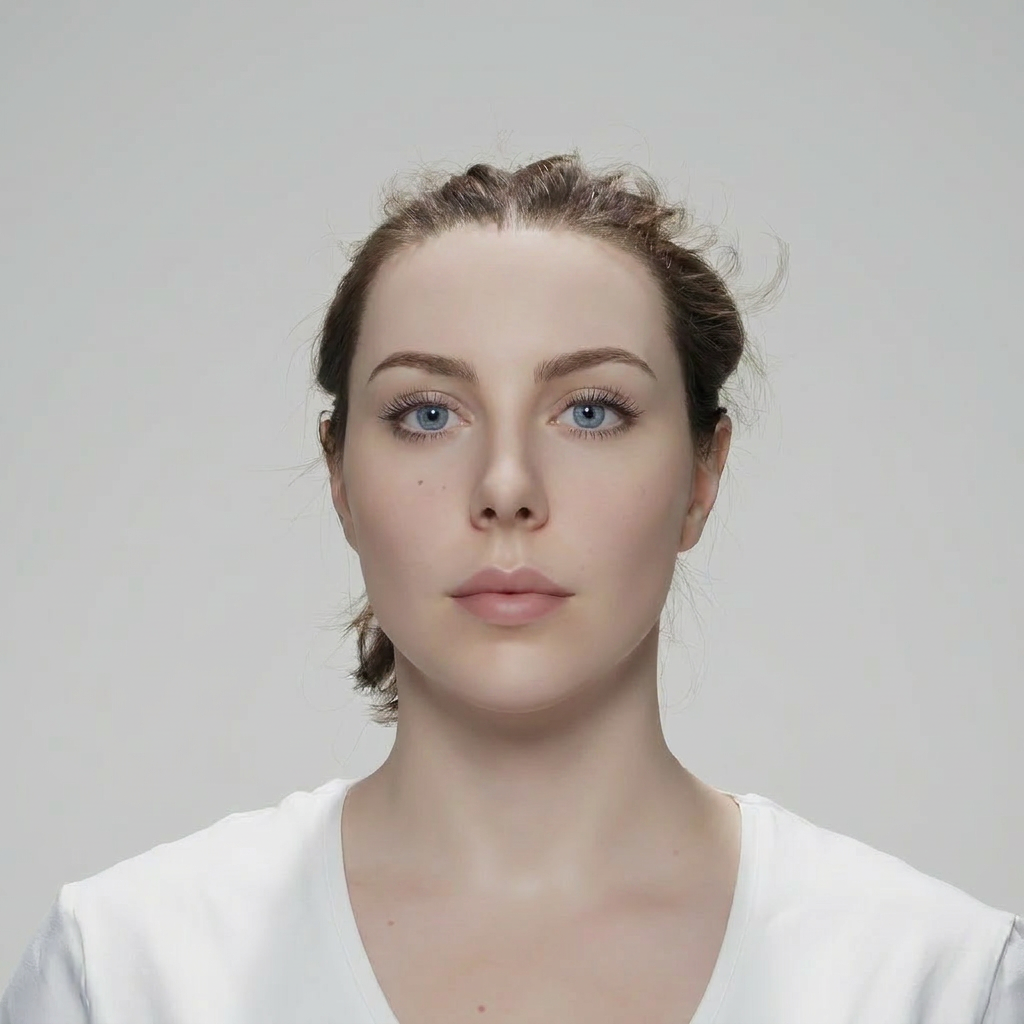
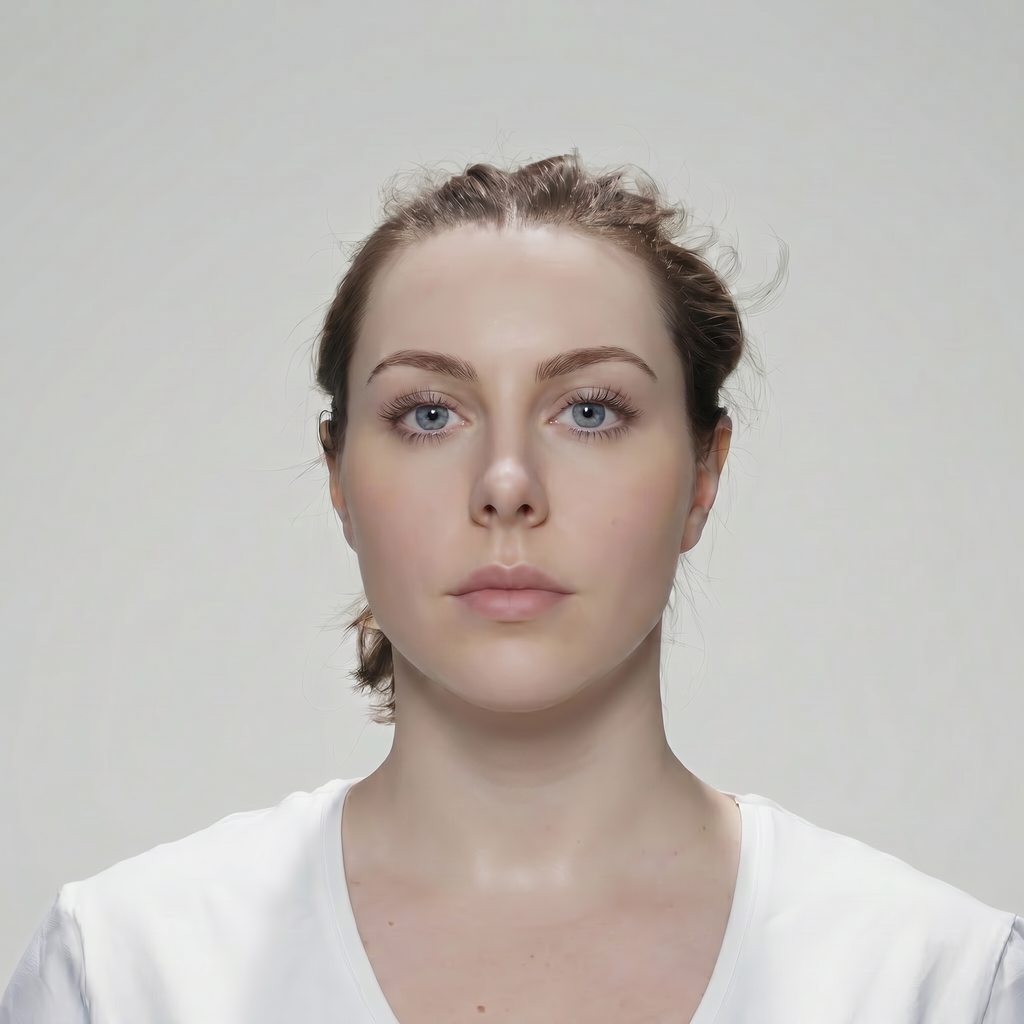
Final Generation: added image_size = "2K" for image generation (Gemini)
riduce la sgranatura

diff --git a/main-generating-v5London.py b/main-generating-v5London.py
@@ -283,7 +283,8 @@ def generate_with_retry(client, model, image_path, prompt, aspect_ratio, style_r
                     config=GenerateContentConfig(
                         response_modalities=[Modality.TEXT, Modality.IMAGE],
                         image_config= types.ImageConfig(
-                            aspect_ratio=aspect_ratio
+                            aspect_ratio=aspect_ratio,
+                            image_size = "2K"
                         ))
                 )
             

diff --git a/second-generating-female-London.py b/second-generating-female-London.py
@@ -187,7 +187,8 @@ def generate_with_retry(client, model, image_path, prompt, aspect_ratio, style_r
                     config=GenerateContentConfig(
                         response_modalities=[Modality.TEXT, Modality.IMAGE],
                         image_config= types.ImageConfig(
-                            aspect_ratio=aspect_ratio
+                            aspect_ratio=aspect_ratio,
+                            image_size = "2K"
                         ))
                 )
             

diff --git a/second-generating-male-London.py b/second-generating-male-London.py
@@ -187,7 +187,8 @@ def generate_with_retry(client, model, image_path, prompt, aspect_ratio, style_r
                     config=GenerateContentConfig(
                         response_modalities=[Modality.TEXT, Modality.IMAGE],
                         image_config= types.ImageConfig(
-                            aspect_ratio=aspect_ratio
+                            aspect_ratio=aspect_ratio,
+                            image_size = "2K"
                         ))
                 )
             
